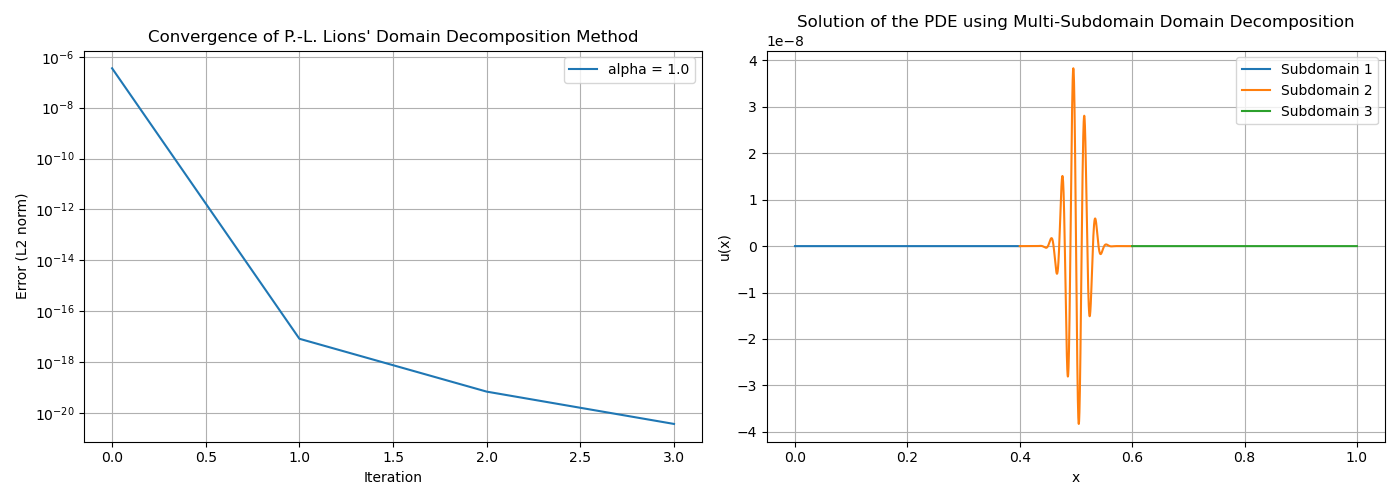
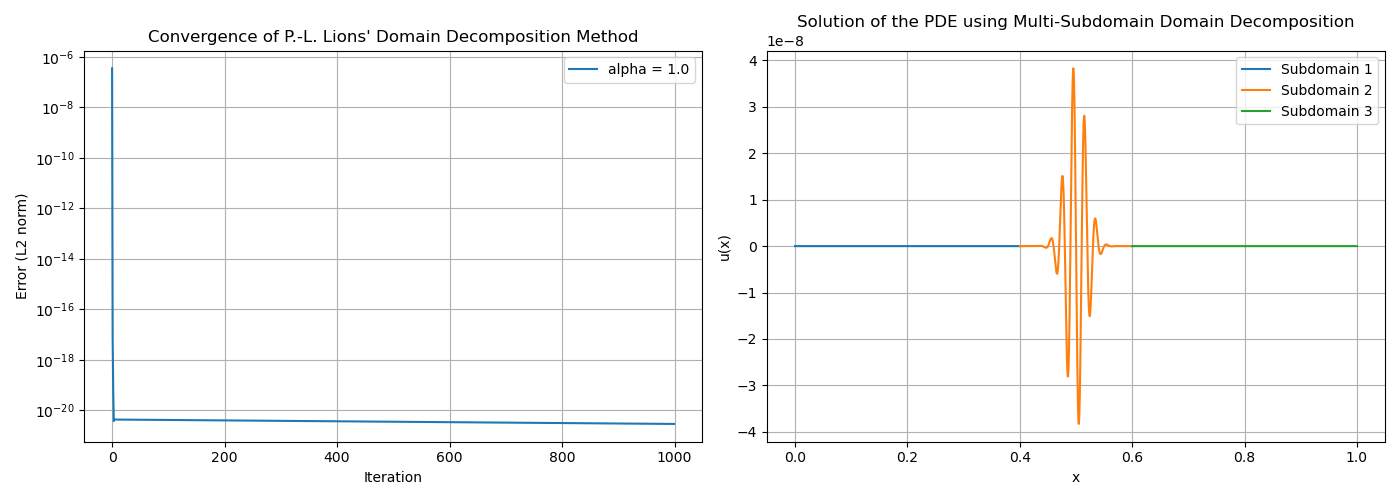
Switched to a method that is easier to fine tune

diff --git a/app/lions_robin.py b/app/lions_robin.py
@@ -92,7 +92,7 @@ def lions_robin_domain_decomposition(f, L, interface_point, N1, N2, eta=1.0, alp
         u1, u2 = u0_1.copy(), u0_2.copy()
         errors = []
         
-        lambda1, lambda2 = 0.0, 0.0  # Initial lambda values
+        lambda1, lambda2 = 1.0, 1.0  # Initial lambda values
         
         for iter in range(max_iter):
             u1_old, u2_old = u1.copy(), u2.copy()
@@ -325,52 +325,89 @@ def multi_subdomain_decomposition(f, L, interface_points, Ns, eta=1.0, alpha_rob
     lambdas = [0.0] * (len(interface_points) * 2)
 
     # Helper function to solve a subdomain problem with Robin boundary condition
-    def solve_subdomain(f_values, x_sub, h, lambda_value, alpha_robin):
-        u_new = np.zeros_like(x_sub)
-        N_sub = len(x_sub) - 1
 
-        # Solve the interior points of the subdomain
+    def solve_subdomain(f_values, x_sub, h, boundary_value, alpha_robin, eta=1.0):
+        """
+        Solves the Poisson equation in a single subdomain with Robin boundary coupling.
+
+        Parameters:
+        - f_values: array-like
+            The source term evaluated at the grid points of the subdomain.
+        - x_sub: array-like
+            The grid points for the current subdomain.
+        - h: float
+            Grid spacing for the current subdomain.
+        - boundary_value: float
+            Value from the neighboring subdomain used in the Robin boundary condition.
+        - alpha_robin: float
+            Coefficient for the Robin boundary condition.
+        - eta: float, optional
+            Coefficient for the differential equation.
+
+        Returns:
+        - u_new: array-like
+            Solution in the current subdomain after applying boundary conditions.
+        """
+        # Initialize the solution array
+        u_new = np.zeros_like(x_sub)
+        N_sub = len(x_sub) - 1  # Number of interior points
+
+        # Iteratively solve the Poisson equation for the interior points
         for i in range(1, N_sub):
             u_new[i] = (u_new[i - 1] + u_new[i + 1] - h**2 * f_values[i]) / (2 + h**2 * eta)
 
-        # Apply Robin boundary condition at the right interface
-        u_new[-1] = (lambda_value + alpha_robin * u_new[-2]) / (alpha_robin + 1 / h)
+        # Apply Robin boundary condition at the interface
+        u_new[-1] = (alpha_robin * boundary_value + u_new[-2]) / (alpha_robin + 1 / h)
 
         return u_new
 
-    # Main iterative solver for the multi-subdomain decomposition
-    errors = []
-    for iter in range(max_iter):
-        old_solutions = [u.copy() for u in solutions]
-        # Iterate over each subdomain
-        for i in range(len(subdomains)):
-            f_values = f(subdomains[i])
-            # Handle boundary conditions for each subdomain
-            if i == 0:
-                # Left-most subdomain only interacts with the right
-                lambda_val = lambdas[2 * i + 1]
-                solutions[i] = solve_subdomain(f_values, subdomains[i], h_values[i], lambda_val, alpha_robin)
-                # Update lambda for right interface
-                lambdas[2 * i + 1] = -lambdas[2 * i + 2] + 2 * alpha_robin * solutions[i][-1]
-            elif i == len(subdomains) - 1:
-                # Right-most subdomain only interacts with the left
-                lambda_val = lambdas[2 * (i - 1)]
-                solutions[i] = solve_subdomain(f_values, subdomains[i], h_values[i], lambda_val, alpha_robin)
-                # Update lambda for left interface
-                lambdas[2 * (i - 1)] = -lambdas[2 * (i - 1) + 1] + 2 * alpha_robin * solutions[i][0]
-            else:
-                # Middle subdomains interact with both left and right
-                lambda_left = lambdas[2 * (i - 1)]
-                solutions[i] = solve_subdomain(f_values, subdomains[i], h_values[i], lambda_left, alpha_robin)
-                # Update lambdas for both interfaces
-                lambdas[2 * (i - 1)] = -lambdas[2 * (i - 1) + 1] + 2 * alpha_robin * solutions[i][0]
-                lambdas[2 * i + 1] = -lambdas[2 * i] + 2 * alpha_robin * solutions[i][-1]
 
-        # Compute the error
+    # Main iterative solver for the multi-subdomain decomposition
+
+    errors = []
+    num_interfaces = len(interface_points)
+    for iteration in range(max_iter):
+        # Store a copy of the old solutions to track convergence
+        old_solutions = [u.copy() for u in solutions]
+
+        # Iterate over each subdomain
+        for i, (x_sub, h, solution) in enumerate(zip(subdomains, h_values, solutions)):
+            # Calculate the source term values for the current subdomain
+            f_values = f(x_sub)
+
+            # Apply boundary conditions based on neighboring subdomains
+            if i == 0:
+                # Left-most subdomain: Use the right boundary from the next subdomain
+                boundary_value = solutions[i + 1][1] if num_interfaces > 0 else 0.0
+                solutions[i] = solve_subdomain(f_values, x_sub, h, boundary_value, alpha_robin)
+
+            elif i == len(subdomains) - 1:
+                # Right-most subdomain: Use the left boundary from the previous subdomain
+                boundary_value = solutions[i - 1][-2] if num_interfaces > 0 else 0.0
+                solutions[i] = solve_subdomain(f_values, x_sub, h, boundary_value, alpha_robin)
+
+            else:
+                # Middle subdomains: Use both left and right boundaries from neighbors
+                boundary_left = solutions[i - 1][-2]
+                boundary_right = solutions[i + 1][1]
+                # First apply the left boundary condition
+                solutions[i] = solve_subdomain(f_values, x_sub, h, boundary_left, alpha_robin)
+                # Then apply the right boundary condition directly using `boundary_right`
+                solutions[i][-1] = (alpha_robin * boundary_right + solutions[i][-2]) / (alpha_robin + 1 / h)
+
+        # Compute the error based on the difference in solutions
         error = sum(np.linalg.norm(u - u_old) for u, u_old in zip(solutions, old_solutions))
         errors.append(error)
+
+        # Check for convergence
         if error < tol:
+            print(f"Converged after {iteration + 1} iterations with error = {error:.6e}")
             break
+
+# If max iterations reached without convergence
+        else:
+            print(f"Reached maximum iterations ({max_iter}) with final error = {error:.6e}")
+
 
     # Plot the combined results
     fig, (ax1, ax2) = plt.subplots(1, 2, figsize=(14, 5))
@@ -418,8 +455,11 @@ if __name__ == "__main__":
 
     # TODO: Put this and next (commented) setup into one plot to show difference in boundary choice
     # Since the latter's bdy is too close to the inner layer it causes the outer two subdomains to oscillate
-    _, errors = multi_subdomain_decomposition(partial(f_interior_layer, x0=[0.5], period=100), L, [0.4,0.6], [100, 1000, 100], alpha_robin=1.0, filename='interior_layer_good_boundary', tol=1e-25)
-    _, errors = multi_subdomain_decomposition(partial(f_interior_layer, x0=[0.5], period = 100), L, [0.45,0.55], [100, 1000, 100], alpha_robin=1.0, filename='interior_layer_bad_boundary', tol=1e-20)
+    # _, errors = multi_subdomain_decomposition(partial(f_interior_layer, x0=[0.5], period=100), L, [0.4,0.6], [100, 1000, 100], alpha_robin=1.0, filename='interior_layer_good_boundary', tol=1e-25)
+    # _, errors = multi_subdomain_decomposition(partial(f_interior_layer, x0=[0.5], period = 100), L, [0.45,0.55], [100, 1000, 100], alpha_robin=1.0, filename='interior_layer_bad_boundary', tol=1e-20)
+
+
+    _, errors = lions_robin_domain_decomposition(f, L, 0.5, 500, 500, alpha_robin=1.0, filename='test', tol=1e-8)
 
 
 

diff --git a/app/feti_2lm.py b/app/feti_2lm.py
@@ -1,0 +1,160 @@
+# This is an equivalent algorithm to lions
+
+# TODO:
+# 1. Either find a new canonical f or hide the discontinuity
+# 2. use this to recreate all of the lions code and have correct errors
+# 3. Pick a couple of interesting hw problems
+
+import numpy as np
+from scipy.sparse import diags
+from scipy.sparse.linalg import spsolve
+import matplotlib.pyplot as plt
+
+# Define the source function for the Poisson equation
+# def f(x):
+#     return np.ones_like(x)  # Example: constant source term
+
+def f(x, x0=[0.2], width=0.1, period=100):
+    return sum(np.exp(-((x - xi) / width)**2) * np.sin(period * np.pi * x) for xi in x0)
+
+
+def f_continuous(x):
+    """Multiscale continuous function with a smooth transition at x = 0.5."""
+    return np.where(x <= 0.5, -0.02 *np.sin(2 * np.pi * x),  np.sin(20 * np.pi * x))
+
+def f_multiscale(x):
+    """Multiscale source term with both low- and high-frequency components."""
+    return np.sin(2 * np.pi * x) + 0.5 * np.sin(20 * np.pi * x) + 0.1 * np.sin(100 * np.pi * x)
+
+
+# Function to construct a Poisson matrix for a given subdomain
+def poisson_matrix(N, dx):
+    """Constructs a sparse matrix for the 1D Poisson equation with Dirichlet BCs."""
+    main_diag = -2.0 * np.ones(N)
+    off_diag = np.ones(N - 1)
+    diagonals = [main_diag, off_diag, off_diag]
+    A = diags(diagonals, [0, -1, 1], format="csr") / dx**2
+    return A
+
+# FETI-2LM solver with adaptive omega and gamma
+def feti_2lm_poisson(f, L, interface_location, N1, N2, initial_omega=0.5, initial_gamma=1.0, tol=1e-6, max_iter=1000):
+    # Define subdomains and grids
+    x1 = np.linspace(0, interface_location, N1 + 1)
+    x2 = np.linspace(interface_location, L, N2 + 1)
+    h1, h2 = x1[1] - x1[0], x2[1] - x2[0]
+    
+    # Create Poisson matrices for each subdomain
+    A1 = poisson_matrix(N1 - 1, h1)
+    A2 = poisson_matrix(N2 - 1, h2)
+    f1 = f(x1[1:-1])  # Source term for interior points in subdomain 1
+    f2 = f(x2[1:-1])  # Source term for interior points in subdomain 2
+
+    # Initial guesses for solutions and Lagrange multipliers
+    u1 = np.zeros(N1 + 1)  # Solution for subdomain 1
+    u2 = np.zeros(N2 + 1)  # Solution for subdomain 2
+    lambda_interface = 0.0  # Lagrange multiplier for interface continuity
+    lambda_global = 0.0  # Second-level Lagrange multiplier for compatibility
+
+    # Initialize omega and gamma
+    omega, gamma = initial_omega, initial_gamma
+
+    # Parameters for adaptive adjustment
+    increase_factor = 1.1  # Factor to increase omega or gamma if convergence is steady
+    decrease_factor = 0.9  # Factor to decrease omega or gamma if oscillations are detected
+    max_omega, max_gamma = 1.0, 2.0  # Upper bounds for omega and gamma
+    min_omega, min_gamma = 0.1, 0.1  # Lower bounds for omega and gamma
+
+    # Convergence loop
+    errors = []
+    for iteration in range(max_iter):
+        u1_old, u2_old = u1.copy(), u2.copy()
+        
+        # Step 1: Solve each subdomain with interface conditions
+        # Subdomain 1 (left side)
+        right_boundary_value = u2[1] - lambda_interface  # Interface condition with lambda
+        f1_adj = f1.copy()
+        f1_adj[-1] += (1 / h1) * right_boundary_value  # Adjust source term for the interface
+        u1[1:-1] = spsolve(A1, f1_adj)  # Solve for interior of subdomain 1
+
+        # Subdomain 2 (right side)
+        left_boundary_value = u1[-2] + lambda_interface  # Interface condition with lambda
+        f2_adj = f2.copy()
+        f2_adj[0] += (1 / h2) * left_boundary_value  # Adjust source term for the interface
+        u2[1:-1] = spsolve(A2, f2_adj)  # Solve for interior of subdomain 2
+
+        # Step 2: Update Lagrange multiplier for interface continuity
+        interface_jump = u1[-2] - u2[1]  # Difference between the two subdomain solutions at the interface
+        lambda_interface += omega * interface_jump  # Update rule for the interface Lagrange multiplier
+
+        # Step 3: Update global Lagrange multiplier for compatibility
+        global_jump = (u1[-2] + u2[1]) / 2  # Average jump for global compatibility
+        lambda_global += gamma * global_jump  # Update rule for the global multiplier
+
+        # Step 4: Calculate error and check for convergence
+        error = max(np.linalg.norm(u1 - u1_old), np.linalg.norm(u2 - u2_old))
+        errors.append(error)
+        
+        # Adaptive adjustment of omega and gamma
+        if len(errors) > 1:
+            # If convergence is steady, increase omega and gamma up to their max values
+            if errors[-1] < errors[-2]:
+                omega = min(omega * increase_factor, max_omega)
+                gamma = min(gamma * increase_factor, max_gamma)
+            # If oscillations are detected (error increases), decrease omega and gamma
+            else:
+                omega = max(omega * decrease_factor, min_omega)
+                gamma = max(gamma * decrease_factor, min_gamma)
+        
+        if error < tol:
+            print(f"Converged after {iteration + 1} iterations with error = {error:.6e}")
+            break
+    else:
+        print(f"Reached maximum iterations ({max_iter}) with final error = {error:.6e}")
+
+    # Combine results for plotting
+    x_combined = np.concatenate([x1[:-1], x2])
+    u_combined = np.concatenate([u1[:-1], u2])
+
+    # Plot the result
+    plt.plot(x_combined, u_combined, label="FETI-2LM Solution")
+    plt.xlabel("x")
+    plt.ylabel("u(x)")
+    plt.title("1D Poisson Equation Solution with FETI-2LM (Adaptive)")
+    plt.legend()
+    plt.grid()
+    plt.savefig('test.png')
+    
+    return u_combined, errors
+
+# Parameters for subdomains and interface
+L = 1.0
+interface_location = 0.6
+N1, N2 = 200, 5000
+
+# Run the FETI-2LM solver with adaptive omega and gamma
+# u_combined, errors = feti_2lm_poisson(f, L, interface_location, N1, N2, initial_omega=0.5, initial_gamma=0.3, tol=1e-12,max_iter=5000)
+# u_combined, errors = feti_2lm_poisson(f_continuous, L, interface_location, N1, N2, initial_omega=0.5, initial_gamma=0.3, tol=1e-14,max_iter=2000)
+
+# Define a grid of omega and gamma values
+# Used to find optimal gamma omega
+omega_grid = np.linspace(0.0010,0.2,4)
+gamma_grid = np.linspace(0.0001,0.2,6)
+
+best_omega, best_gamma = None, None
+min_error = float('inf')
+
+for omega in omega_grid:
+    for gamma in gamma_grid:
+        print(f"Testing omega = {omega}, gamma = {gamma}")
+        u_combined, errors = feti_2lm_poisson(f_continuous, L, interface_location, N1, N2, initial_omega=omega, initial_gamma=gamma, tol=1e-14,max_iter=2000)
+      
+        # Final error for this combination
+        final_error = errors[-1] if errors else float('inf')
+      
+        # Check if this combination is the best so far
+        if final_error < min_error:
+            min_error = final_error
+            best_omega, best_gamma = omega, gamma
+            print(f"New best omega, gamma = ({best_omega}, {best_gamma}) with error {min_error:.6e}")
+
+print(f"Optimal values: omega = {best_omega}, gamma = {best_gamma} with final error = {min_error:.6e}")
